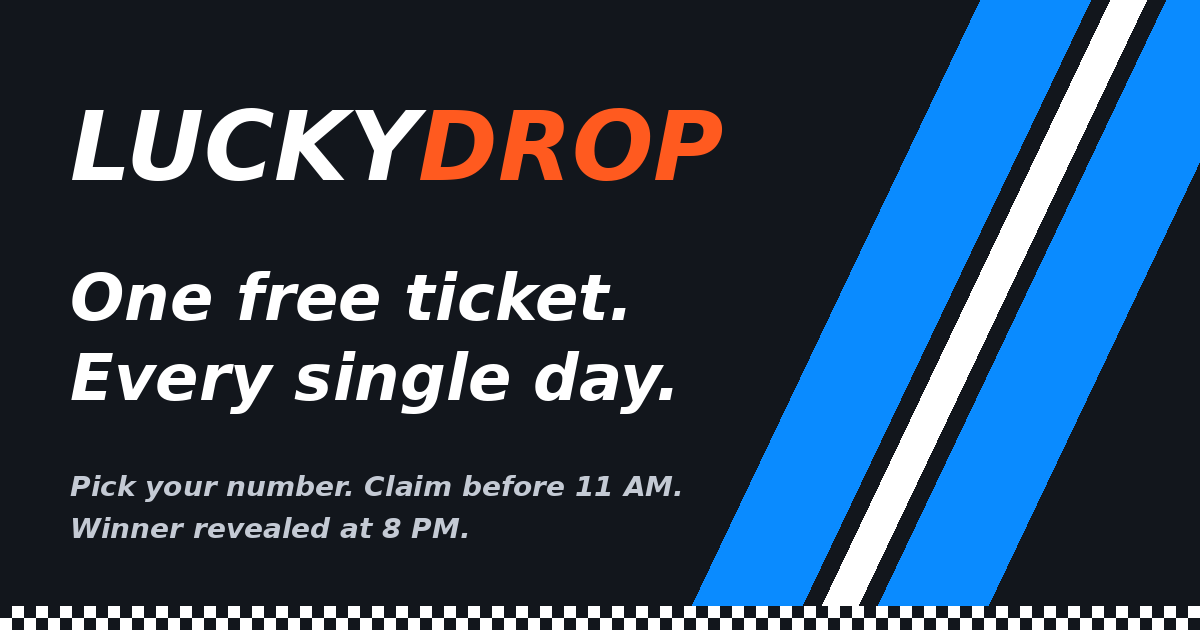
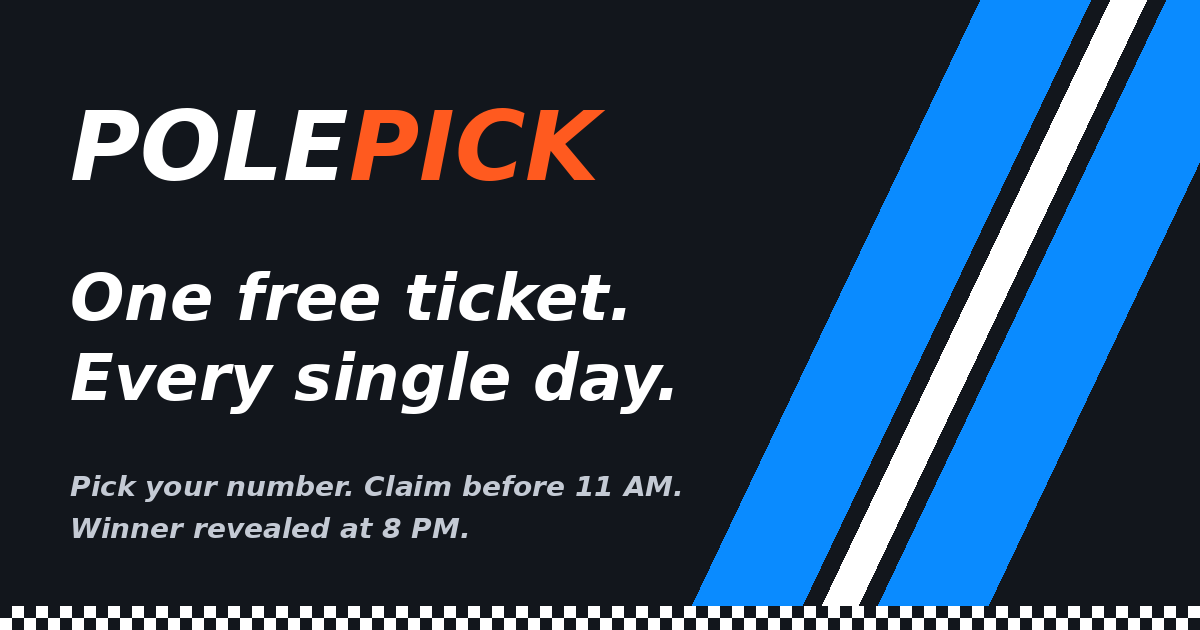
Add files via upload

Changed region(s): [[0.0617, 0.1508, 0.6167, 0.3016]]

diff --git a/rules.html b/rules.html
@@ -1,4 +1,4 @@
-<!DOCTYPE html><html lang="en"><head><meta charset="UTF-8"><meta name="viewport" content="width=device-width, initial-scale=1"><meta name="description" content="How LuckyDrop works: claim a free ticket between 10 and 11 AM, winner revealed at 8 PM."><link rel="preconnect" href="https://fonts.googleapis.com"><link href="https://fonts.googleapis.com/css2?family=Barlow:wght@400;500;600;700&family=Barlow+Condensed:ital,wght@1,800&display=swap" rel="stylesheet"><link rel="stylesheet" href="style.css"><title>How it works - LuckyDrop</title></head><body><header class="top"><a class="logo serif" href="index.html">Lucky<span>Drop</span></a><nav><a href="winner.html">Winners</a><a href="rules.html">Rules</a></nav></header><main class="doc">
+<!DOCTYPE html><html lang="en"><head><meta charset="UTF-8"><meta name="viewport" content="width=device-width, initial-scale=1"><meta name="description" content="How PolePick works: claim a free ticket between 10 and 11 AM, winner revealed at 8 PM."><link rel="preconnect" href="https://fonts.googleapis.com"><link href="https://fonts.googleapis.com/css2?family=Barlow:wght@400;500;600;700&family=Barlow+Condensed:ital,wght@1,800&display=swap" rel="stylesheet"><link rel="stylesheet" href="style.css"><title>How it works - PolePick</title></head><body><header class="top"><a class="logo serif" href="index.html">Pole<span>Pick</span></a><nav><a href="winner.html">Winners</a><a href="rules.html">Rules</a></nav></header><main class="doc">
 <div class="hero"><h1>How it works</h1><p>Everything you need to know, in plain words.</p></div>
 <div class="facts"><div><b>10 AM</b>Drop opens</div><div><b>11 AM</b>Entries close</div><div><b>8 PM</b>Winner revealed</div></div>
 <p class="fine" style="text-align:center">All times are Indian Standard Time (IST).</p>
@@ -11,7 +11,7 @@
 </ol>
 <h2>The rules</h2>
 <ol class="rules">
-<li><b>It's free.</b> You never pay to enter or to receive a prize. Nobody from LuckyDrop will ever ask you for money.</li>
+<li><b>It's free.</b> You never pay to enter or to receive a prize. Nobody from PolePick will ever ask you for money.</li>
 <li><b>18+ and in India.</b> You must be 18 or older and live in India.</li>
 <li><b>One ticket per person, per day.</b> You claim with your Google account, and each account gets one ticket a day.</li>
 <li><b>10:00 to 11:00 AM IST.</b> Tickets can only be claimed in this window.</li>
@@ -23,7 +23,7 @@
 <li><b>Play fair.</b> Bots, extra accounts or other tricks lead to disqualification.</li>
 <li><b>Changes.</b> If we change or pause the game, we'll say so on the site.</li>
 </ol>
-<h2>Bonus tickets</h2><p>You can earn extra tickets, but you can never buy them. A bonus ticket is a real ticket that <b>you pick yourself</b>, just like your first one.</p><ol class="rules"><li><b>Invite a friend.</b> Share your personal link. When a friend who is new to LuckyDrop claims their first ticket through it, you both get one bonus ticket. Your friend uses theirs that day. Yours waits until you use it.</li><li><b>7-day streak.</b> Claim a ticket 7 days in a row and get one bonus ticket on the 7th day, then again on the 14th, and so on.</li></ol><p>Bonus tickets are claimed in the same 10 to 11 AM window, and you can use up to 5 a day. Invites from fake or duplicate accounts don't count and can lead to disqualification. More tickets mean more chances, never a guaranteed win.</p>
+<h2>Bonus tickets</h2><p>You can earn extra tickets, but you can never buy them. A bonus ticket is a real ticket that <b>you pick yourself</b>, just like your first one.</p><ol class="rules"><li><b>Invite a friend.</b> Share your personal link. When a friend who is new to PolePick claims their first ticket through it, you both get one bonus ticket. Your friend uses theirs that day. Yours waits until you use it.</li><li><b>7-day streak.</b> Claim a ticket 7 days in a row and get one bonus ticket on the 7th day, then again on the 14th, and so on.</li></ol><p>Bonus tickets are claimed in the same 10 to 11 AM window, and you can use up to 5 a day. Invites from fake or duplicate accounts don't count and can lead to disqualification. More tickets mean more chances, never a guaranteed win.</p>
 <h2>Is it really fair?</h2>
 <p>Yes. Nobody can buy extra chances, and nobody on our team picks winners by hand. The draw is random, and every result stays on the Winners page for anyone to check.</p>
 <h2>Questions</h2>
@@ -31,7 +31,7 @@
 <details><summary>Can I choose the same number every day?</summary><p>Yes, as long as nobody else has taken it that day.</p></details>
 <details><summary>I missed the 10 to 11 AM window.</summary><p>Come back tomorrow at 10 AM. A new Drop opens every day.</p></details>
 <details><summary>I won. What now?</summary><p>Check your email. We'll write to the address on your Google account. Reply within 7 days to claim your prize.</p></details>
-<details><summary>How does LuckyDrop pay for prizes?</summary><p>Through ads and product links on the site. You never pay.</p></details>
+<details><summary>How does PolePick pay for prizes?</summary><p>Through ads and product links on the site. You never pay.</p></details>
 <details><summary>Still have a question?</summary><p>Write to us at [CONTACT EMAIL].</p></details>
 <p class="fine" style="margin-top:20px">Read the full <a href="terms.html">Terms</a> and <a href="privacy.html">Privacy Policy</a>.</p>
 </main><footer><a href="rules.html">How it works</a><a href="winner.html">Winners</a><a href="picks.html">Picks</a><a href="terms.html">Terms</a><a href="privacy.html">Privacy</a><p style="margin-top:8px">Free to play. Ads keep it free.</p></footer></body></html>

diff --git a/privacy.html b/privacy.html
@@ -1,6 +1,6 @@
-<!DOCTYPE html><html lang="en"><head><meta charset="UTF-8"><meta name="viewport" content="width=device-width, initial-scale=1"><meta name="description" content="How LuckyDrop collects, uses and protects your data."><link rel="preconnect" href="https://fonts.googleapis.com"><link href="https://fonts.googleapis.com/css2?family=Barlow:wght@400;500;600;700&family=Barlow+Condensed:ital,wght@1,800&display=swap" rel="stylesheet"><link rel="stylesheet" href="style.css"><title>Privacy Policy - LuckyDrop</title></head><body><header class="top"><a class="logo serif" href="index.html">Lucky<span>Drop</span></a><nav><a href="winner.html">Winners</a><a href="rules.html">Rules</a></nav></header><main class="doc">
+<!DOCTYPE html><html lang="en"><head><meta charset="UTF-8"><meta name="viewport" content="width=device-width, initial-scale=1"><meta name="description" content="How PolePick collects, uses and protects your data."><link rel="preconnect" href="https://fonts.googleapis.com"><link href="https://fonts.googleapis.com/css2?family=Barlow:wght@400;500;600;700&family=Barlow+Condensed:ital,wght@1,800&display=swap" rel="stylesheet"><link rel="stylesheet" href="style.css"><title>Privacy Policy - PolePick</title></head><body><header class="top"><a class="logo serif" href="index.html">Pole<span>Pick</span></a><nav><a href="winner.html">Winners</a><a href="rules.html">Rules</a></nav></header><main class="doc">
 <div class="hero"><h1>Privacy Policy</h1><p>Last updated: 9 October 2026</p></div>
-<p>LuckyDrop is run by [YOUR NAME] in India. This page explains what we collect and why. You can reach us at [CONTACT EMAIL].</p>
+<p>PolePick is run by [YOUR NAME] in India. This page explains what we collect and why. You can reach us at [CONTACT EMAIL].</p>
 <h2>What we collect</h2>
 <ul class="rules"><li>Your <b>name, email address and Google user ID</b>, from Google login.</li>
 <li>Your <b>ticket number</b> and the <b>date</b> you claimed it.</li>
@@ -9,7 +9,7 @@
 <h2>Why we use it</h2>
 <ul class="rules"><li>To give each person one ticket a day and run the draw.</li><li>To email and verify a winner.</li><li>To keep the game safe from cheating.</li></ul>
 <h2>Ads and cookies</h2>
-<p>We show ads to keep LuckyDrop free. Ad partners such as Google may use cookies to show ads and measure them. You can manage ad personalisation in your Google account settings. Some product links on our site are affiliate links: if you buy through them we may earn a commission at no cost to you.</p>
+<p>We show ads to keep PolePick free. Ad partners such as Google may use cookies to show ads and measure them. You can manage ad personalisation in your Google account settings. Some product links on our site are affiliate links: if you buy through them we may earn a commission at no cost to you.</p>
 <h2>Who sees your data</h2>
 <p>We don't sell your personal data. It is stored with Google Firebase, which runs our login and database. We share it only with service providers who help run the site, or when the law requires.</p>
 <h2>How long we keep it</h2>
@@ -17,7 +17,7 @@
 <h2>Your rights</h2>
 <p>You can ask to see, correct or delete your personal data, or withdraw your consent, by writing to [CONTACT EMAIL]. We'll reply within a reasonable time.</p>
 <h2>Age</h2>
-<p>LuckyDrop is for people aged 18 and over.</p>
+<p>PolePick is for people aged 18 and over.</p>
 <h2>Changes</h2>
 <p>If this policy changes, we'll update the date at the top.</p>
 </main><footer><a href="rules.html">How it works</a><a href="winner.html">Winners</a><a href="picks.html">Picks</a><a href="terms.html">Terms</a><a href="privacy.html">Privacy</a><p style="margin-top:8px">Free to play. Ads keep it free.</p></footer></body></html>

diff --git a/index.html b/index.html
@@ -1,5 +1,5 @@
-<!DOCTYPE html><html lang="en"><head><meta charset="UTF-8"><meta name="viewport" content="width=device-width, initial-scale=1"><link rel="preconnect" href="https://fonts.googleapis.com"><link href="https://fonts.googleapis.com/css2?family=Barlow:wght@400;500;600;700&family=Barlow+Condensed:ital,wght@1,800&display=swap" rel="stylesheet"><link rel="stylesheet" href="style.css"><meta name="description" content="LuckyDrop: one free ticket every day. Pick your number, claim it between 10 and 11 AM, winner revealed at 8 PM.">
-<meta property="og:title" content="LuckyDrop: one free ticket, every day">
+<!DOCTYPE html><html lang="en"><head><meta charset="UTF-8"><meta name="viewport" content="width=device-width, initial-scale=1"><link rel="preconnect" href="https://fonts.googleapis.com"><link href="https://fonts.googleapis.com/css2?family=Barlow:wght@400;500;600;700&family=Barlow+Condensed:ital,wght@1,800&display=swap" rel="stylesheet"><link rel="stylesheet" href="style.css"><meta name="description" content="PolePick is a free daily giveaway in India. Pick your own number, claim it between 10 and 11 AM, and see the winner at 8 PM. No payment, ever.">
+<meta property="og:title" content="PolePick: free daily giveaway in India">
 <meta property="og:description" content="Pick your number. Claim before 11 AM. Winner at 8 PM. Free to play.">
 <meta property="og:type" content="website">
 <meta property="og:url" content="https://lucky-drop.netlify.app/">
@@ -7,8 +7,8 @@
 <meta name="twitter:card" content="summary_large_image">
 <meta name="theme-color" content="#12161c">
 <link rel="icon" href="favicon.svg" type="image/svg+xml">
-<title>LuckyDrop - One free ticket, every day</title></head><body>
-<header class="top"><a class="logo serif" href="index.html">Lucky<span>Drop</span></a><nav><a href="winner.html">Winners</a><a href="rules.html">Rules</a></nav></header>
+<title>PolePick: Free Daily Giveaway in India. Pick Your Number.</title></head><body>
+<header class="top"><a class="logo serif" href="index.html">Pole<span>Pick</span></a><nav><a href="winner.html">Winners</a><a href="rules.html">Rules</a></nav></header>
 <main>
 <div class="note hidden" id="refNote">A friend invited you. Claim your first ticket and you both get a bonus ticket.</div>
 <section id="loginView" class="hidden">
@@ -145,8 +145,8 @@ $("claimBtn").onclick=async()=>{$("claimBtn").disabled=true;$("msg").textContent
 $("bonusBtn").onclick=()=>{bonusMode=true;slots.forEach(s=>s.value="");show("pickView");tick();slots[0].focus()};
 $("backBtn").onclick=()=>done(myCode);
 $("shareBtn").onclick=async()=>{const b=await makeCard({label:"My ticket for tonight",code:myCode,sub:"Draw tonight at 8 PM"});
- shareCard(b,"I got ticket "+myCode+" on LuckyDrop, a free daily giveaway. Claim yours: "+link())};
-$("inviteBtn").onclick=()=>window.open("https://wa.me/?text="+encodeURIComponent("Join me on LuckyDrop, a free daily giveaway. Claim your first ticket with my link and we both get a bonus ticket: "+link()),"_blank");
+ shareCard(b,"I got ticket "+myCode+" on PolePick, a free daily giveaway. Claim yours: "+link())};
+$("inviteBtn").onclick=()=>window.open("https://wa.me/?text="+encodeURIComponent("Join me on PolePick, a free daily giveaway. Claim your first ticket with my link and we both get a bonus ticket: "+link()),"_blank");
 $("copyBtn").onclick=async()=>{try{await navigator.clipboard.writeText(link());$("copyBtn").textContent="Link copied"}catch(e){prompt("Copy your link:",link())}};
 setInterval(()=>{if(!$("pickView").classList.contains("hidden"))tick()},1000);
 </script><script src="ads.js"></script></body></html>

diff --git a/winner.html b/winner.html
@@ -1,5 +1,5 @@
-<!DOCTYPE html><html lang="en"><head><meta charset="UTF-8"><meta name="viewport" content="width=device-width, initial-scale=1"><link rel="preconnect" href="https://fonts.googleapis.com"><link href="https://fonts.googleapis.com/css2?family=Barlow:wght@400;500;600;700&family=Barlow+Condensed:ital,wght@1,800&display=swap" rel="stylesheet"><link rel="stylesheet" href="style.css"><meta name="description" content="LuckyDrop: one free ticket every day. Pick your number, claim it between 10 and 11 AM, winner revealed at 8 PM.">
-<meta property="og:title" content="LuckyDrop: one free ticket, every day">
+<!DOCTYPE html><html lang="en"><head><meta charset="UTF-8"><meta name="viewport" content="width=device-width, initial-scale=1"><link rel="preconnect" href="https://fonts.googleapis.com"><link href="https://fonts.googleapis.com/css2?family=Barlow:wght@400;500;600;700&family=Barlow+Condensed:ital,wght@1,800&display=swap" rel="stylesheet"><link rel="stylesheet" href="style.css"><meta name="description" content="PolePick: one free ticket every day. Pick your number, claim it between 10 and 11 AM, winner revealed at 8 PM.">
+<meta property="og:title" content="PolePick: free daily giveaway in India">
 <meta property="og:description" content="Pick your number. Claim before 11 AM. Winner at 8 PM. Free to play.">
 <meta property="og:type" content="website">
 <meta property="og:url" content="https://lucky-drop.netlify.app/">
@@ -7,8 +7,8 @@
 <meta name="twitter:card" content="summary_large_image">
 <meta name="theme-color" content="#12161c">
 <link rel="icon" href="favicon.svg" type="image/svg+xml">
-<title>LuckyDrop - Winners</title></head><body>
-<header class="top"><a class="logo serif" href="index.html">Lucky<span>Drop</span></a><nav><a href="winner.html">Winners</a><a href="rules.html">Rules</a></nav></header>
+<title>Daily Winners - PolePick</title></head><body>
+<header class="top"><a class="logo serif" href="index.html">Pole<span>Pick</span></a><nav><a href="winner.html">Winners</a><a href="rules.html">Rules</a></nav></header>
 <main>
  <div class="hero"><h1 id="title">Tonight's winner</h1><p id="sub"></p></div>
  <div class="ticket"><div class="tk-head"><small id="lbl">Winning ticket</small><b id="prize"></b></div>
@@ -39,7 +39,7 @@ function mine(){if(!winner||!me)return;Promise.all([getDoc(doc(db,"tickets",day+
  n.textContent=won?"That's your ticket. You won! We'll email you at "+me.email+" within 24 hours.":"Your ticket today was "+s.data().code+". Better luck tomorrow.";
  if(won)$("shareWin").classList.remove("hidden")})}
 onAuthStateChanged(auth,u=>{me=u;mine()});
-$("shareWin").onclick=async()=>{const b=await makeCard({label:"I won today's drop",code:winner,sub:"Won "+PRIZE});shareCard(b,"I won "+PRIZE+" on LuckyDrop! It's free to play: "+location.origin)};
+$("shareWin").onclick=async()=>{const b=await makeCard({label:"I won today's drop",code:winner,sub:"Won "+PRIZE});shareCard(b,"I won "+PRIZE+" on PolePick! It's free to play: "+location.origin)};
 load();setInterval(()=>{if(!winner)load()},30000);
 getDocs(query(collection(db,"results"),orderBy("day","desc"),limit(8))).then(q=>{
  const rows=q.docs.filter(d=>d.id!==day).map(d=>'<div class="row"><span>'+nice(d.id)+'</span><b>'+d.data().code+'</b></div>');

diff --git a/terms.html b/terms.html
@@ -1,6 +1,6 @@
-<!DOCTYPE html><html lang="en"><head><meta charset="UTF-8"><meta name="viewport" content="width=device-width, initial-scale=1"><meta name="description" content="Terms for using LuckyDrop, the free daily ticket game."><link rel="preconnect" href="https://fonts.googleapis.com"><link href="https://fonts.googleapis.com/css2?family=Barlow:wght@400;500;600;700&family=Barlow+Condensed:ital,wght@1,800&display=swap" rel="stylesheet"><link rel="stylesheet" href="style.css"><title>Terms of Use - LuckyDrop</title></head><body><header class="top"><a class="logo serif" href="index.html">Lucky<span>Drop</span></a><nav><a href="winner.html">Winners</a><a href="rules.html">Rules</a></nav></header><main class="doc">
+<!DOCTYPE html><html lang="en"><head><meta charset="UTF-8"><meta name="viewport" content="width=device-width, initial-scale=1"><meta name="description" content="Terms for using PolePick, the free daily ticket game."><link rel="preconnect" href="https://fonts.googleapis.com"><link href="https://fonts.googleapis.com/css2?family=Barlow:wght@400;500;600;700&family=Barlow+Condensed:ital,wght@1,800&display=swap" rel="stylesheet"><link rel="stylesheet" href="style.css"><title>Terms of Use - PolePick</title></head><body><header class="top"><a class="logo serif" href="index.html">Pole<span>Pick</span></a><nav><a href="winner.html">Winners</a><a href="rules.html">Rules</a></nav></header><main class="doc">
 <div class="hero"><h1>Terms of Use</h1><p>Last updated: 9 October 2026</p></div>
-<p>By using LuckyDrop you agree to these terms. The game rules are explained in plain words on the <a href="rules.html">How it works</a> page and form part of these terms.</p>
+<p>By using PolePick you agree to these terms. The game rules are explained in plain words on the <a href="rules.html">How it works</a> page and form part of these terms.</p>
 <h2>Who can play</h2>
 <p>You must be 18 or older and live in India. You must not play where the law prohibits this kind of game.</p>
 <h2>No purchase needed</h2>
@@ -12,7 +12,7 @@
 <h2>Third-party links and ads</h2>
 <p>Ads and product links lead to other websites. We don't control them and aren't responsible for what you buy from them.</p>
 <h2>Our responsibility</h2>
-<p>We work hard to keep LuckyDrop running, but we can't promise it will always be available or error-free. To the extent the law allows, we aren't liable for losses from using the site.</p>
+<p>We work hard to keep PolePick running, but we can't promise it will always be available or error-free. To the extent the law allows, we aren't liable for losses from using the site.</p>
 <h2>Changes and contact</h2>
 <p>We may update these terms or pause the game, and will post changes here. Questions? Write to [CONTACT EMAIL]. These terms are governed by the laws of India.</p>
 </main><footer><a href="rules.html">How it works</a><a href="winner.html">Winners</a><a href="picks.html">Picks</a><a href="terms.html">Terms</a><a href="privacy.html">Privacy</a><p style="margin-top:8px">Free to play. Ads keep it free.</p></footer></body></html>

diff --git a/share.js b/share.js
@@ -8,8 +8,8 @@ export async function makeCard({label,code,sub}){
   x.save();x.beginPath();x.rect(0,0,1080,290);x.clip();
   const stripe=(x0,w,col)=>{x.fillStyle=col;x.beginPath();x.moveTo(x0,0);x.lineTo(x0+w,0);x.lineTo(x0+w-420,1350);x.lineTo(x0-420,1350);x.fill()};
   stripe(790,100,"#0a8bff");stripe(910,30,"#fff");stripe(960,100,"#0a8bff");x.restore();
-  x.textAlign="left";x.font=F(100);const wA=x.measureText("LUCKY").width,wB=x.measureText("DROP").width,sx=(1080-wA-wB)/2-80;
-  x.fillStyle="#fff";x.fillText("LUCKY",sx,190);x.fillStyle="#ff5a1f";x.fillText("DROP",sx+wA,190);
+  x.textAlign="left";x.font=F(100);const wA=x.measureText("POLE").width,wB=x.measureText("PICK").width,sx=(1080-wA-wB)/2-80;
+  x.fillStyle="#fff";x.fillText("POLE",sx,190);x.fillStyle="#ff5a1f";x.fillText("PICK",sx+wA,190);
   x.fillStyle="#fff";rr(x,90,290,900,680,48);x.fill();
   x.textAlign="center";x.fillStyle="#5b6675";x.font=F(52);x.fillText(label.toUpperCase(),540,395);
   x.fillStyle="#12161c";x.font=F(330);x.fillText(code,540,705);
@@ -20,10 +20,10 @@ export async function makeCard({label,code,sub}){
   return new Promise(r=>c.toBlob(r,"image/png"));
 }
 export async function shareCard(blob,text){
-  const f=new File([blob],"luckydrop.png",{type:"image/png"});
+  const f=new File([blob],"polepick.png",{type:"image/png"});
   if(navigator.canShare&&navigator.canShare({files:[f]})){
     try{await navigator.share({files:[f],text});return}catch(e){if(e.name==="AbortError")return}
   }
-  const a=document.createElement("a");a.href=URL.createObjectURL(blob);a.download="luckydrop-ticket.png";a.click();
+  const a=document.createElement("a");a.href=URL.createObjectURL(blob);a.download="polepick-ticket.png";a.click();
   window.open("https://wa.me/?text="+encodeURIComponent(text),"_blank");
 }

diff --git a/picks.html b/picks.html
@@ -1,4 +1,4 @@
-<!DOCTYPE html><html lang="en"><head><meta charset="UTF-8"><meta name="viewport" content="width=device-width, initial-scale=1"><meta name="description" content="A short, hand-picked list of products worth a look today."><link rel="preconnect" href="https://fonts.googleapis.com"><link href="https://fonts.googleapis.com/css2?family=Barlow:wght@400;500;600;700&family=Barlow+Condensed:ital,wght@1,800&display=swap" rel="stylesheet"><link rel="stylesheet" href="style.css"><title>Today's Picks - LuckyDrop</title></head><body><header class="top"><a class="logo serif" href="index.html">Lucky<span>Drop</span></a><nav><a href="winner.html">Winners</a><a href="rules.html">Rules</a></nav></header><main class="doc">
+<!DOCTYPE html><html lang="en"><head><meta charset="UTF-8"><meta name="viewport" content="width=device-width, initial-scale=1"><meta name="description" content="A short, hand-picked list of products worth a look today."><link rel="preconnect" href="https://fonts.googleapis.com"><link href="https://fonts.googleapis.com/css2?family=Barlow:wght@400;500;600;700&family=Barlow+Condensed:ital,wght@1,800&display=swap" rel="stylesheet"><link rel="stylesheet" href="style.css"><title>Today's Picks - PolePick</title></head><body><header class="top"><a class="logo serif" href="index.html">Pole<span>Pick</span></a><nav><a href="winner.html">Winners</a><a href="rules.html">Rules</a></nav></header><main class="doc">
 <div class="hero"><h1>Today's Picks</h1><p>A few things worth a look while you wait for 8 PM.</p></div>
 <p class="fine" style="text-align:center;margin-bottom:16px">Some links are affiliate links. If you buy, we may earn a small commission, at no cost to you. Sponsored picks are always labelled.</p>
 <div id="grid"></div>

diff --git a/admin.html b/admin.html
@@ -1,5 +1,5 @@
-<!DOCTYPE html><html lang="en"><head><meta charset="UTF-8"><meta name="viewport" content="width=device-width, initial-scale=1"><link rel="preconnect" href="https://fonts.googleapis.com"><link href="https://fonts.googleapis.com/css2?family=Barlow:wght@400;500;600;700&family=Barlow+Condensed:ital,wght@1,800&display=swap" rel="stylesheet"><link rel="stylesheet" href="style.css"><title>LuckyDrop Admin</title><meta name="robots" content="noindex"></head><body>
-<header class="top"><a class="logo serif" href="index.html">Lucky<span>Drop</span></a><nav><a href="winner.html">Winners</a><a href="rules.html">Rules</a></nav></header>
+<!DOCTYPE html><html lang="en"><head><meta charset="UTF-8"><meta name="viewport" content="width=device-width, initial-scale=1"><link rel="preconnect" href="https://fonts.googleapis.com"><link href="https://fonts.googleapis.com/css2?family=Barlow:wght@400;500;600;700&family=Barlow+Condensed:ital,wght@1,800&display=swap" rel="stylesheet"><link rel="stylesheet" href="style.css"><title>PolePick Admin</title><meta name="robots" content="noindex"></head><body>
+<header class="top"><a class="logo serif" href="index.html">Pole<span>Pick</span></a><nav><a href="winner.html">Winners</a><a href="rules.html">Rules</a></nav></header>
 <main>
  <div class="hero"><h1>Admin</h1><p id="who">Log in with the admin Google account.</p></div>
  <button class="btn" id="login">Continue with Google</button>
